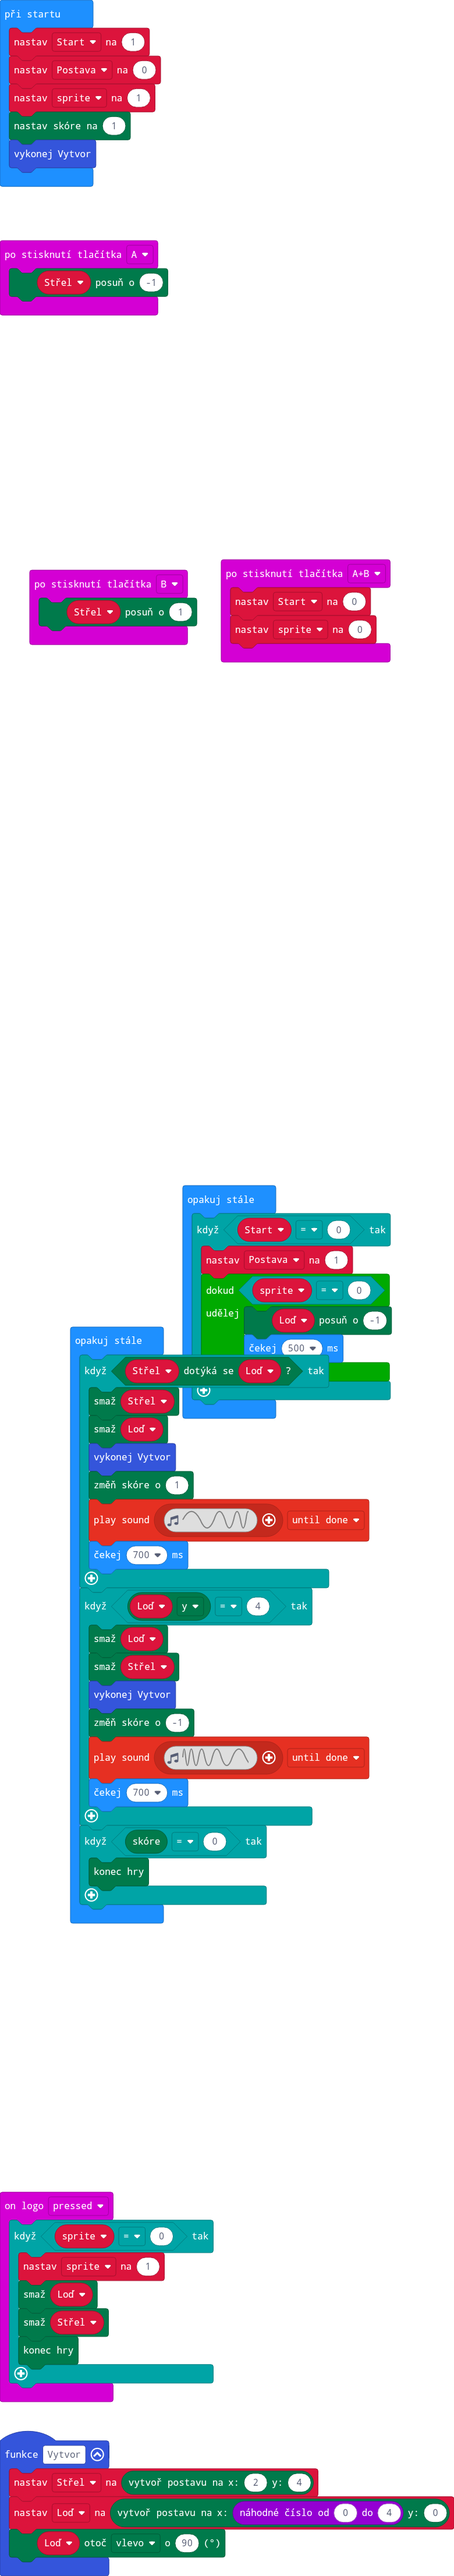
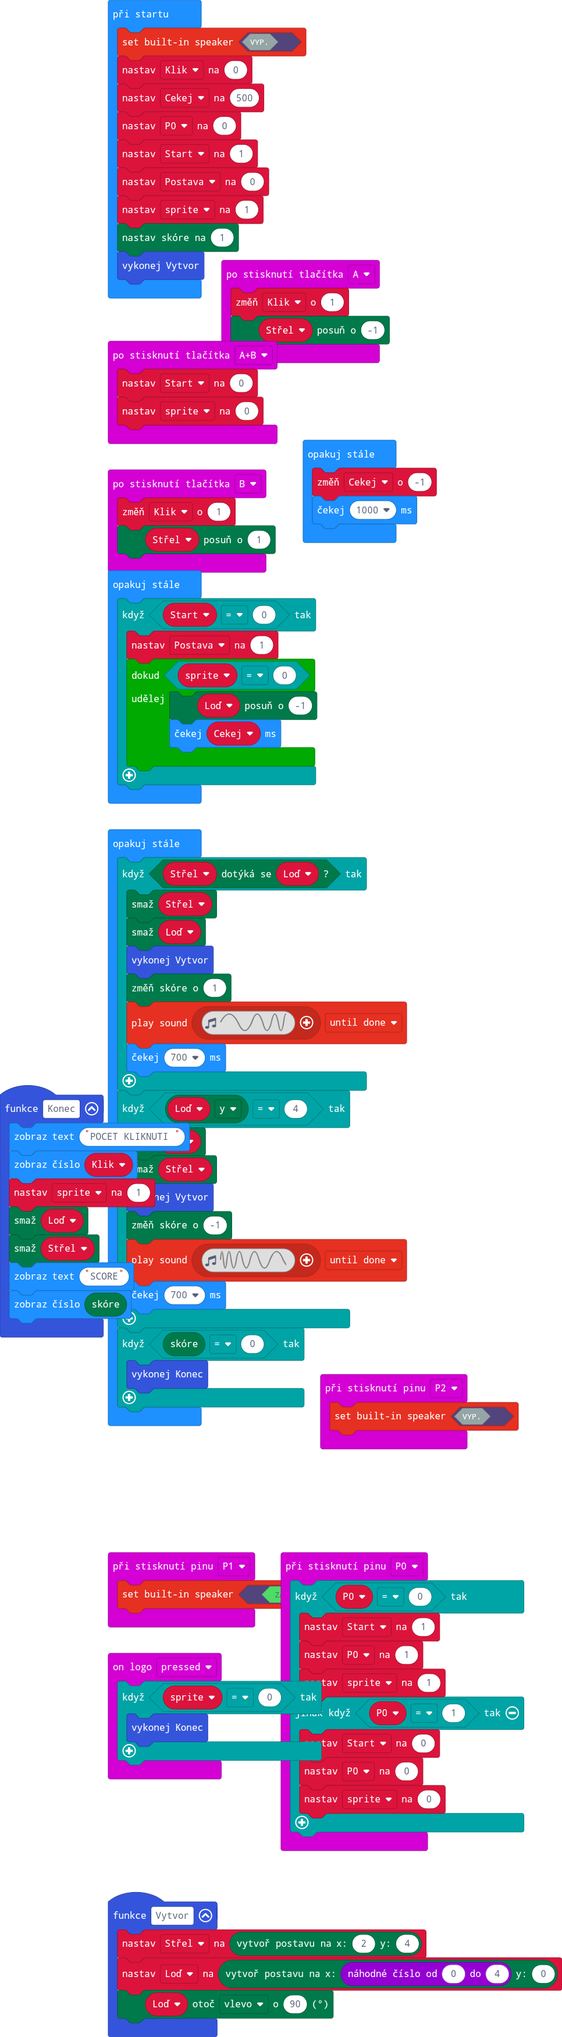
Aktualizovat main.blocks, main.ts

diff --git a/main.ts b/main.ts
@@ -1,12 +1,40 @@
+input.onPinPressed(TouchPin.P0, function () {
+    if (P0 == 0) {
+        Start = 1
+        P0 = 1
+        sprite = 1
+    } else if (P0 == 1) {
+        Start = 0
+        P0 = 0
+        sprite = 0
+    }
+})
 input.onButtonPressed(Button.A, function () {
+    Klik += 1
     Střel.move(-1)
+})
+function Konec () {
+    basic.showString("POCET KLIKNUTI ")
+    basic.showNumber(Klik)
+    sprite = 1
+    Loď.delete()
+    Střel.delete()
+    basic.showString("SCORE")
+    basic.showNumber(game.score())
+}
+input.onPinPressed(TouchPin.P2, function () {
+    music.setBuiltInSpeakerEnabled(false)
 })
 input.onButtonPressed(Button.AB, function () {
     Start = 0
     sprite = 0
 })
 input.onButtonPressed(Button.B, function () {
+    Klik += 1
     Střel.move(1)
+})
+input.onPinPressed(TouchPin.P1, function () {
+    music.setBuiltInSpeakerEnabled(true)
 })
 function Vytvor () {
     Střel = game.createSprite(2, 4)
@@ -15,27 +43,34 @@ function Vytvor () {
 }
 input.onLogoEvent(TouchButtonEvent.Pressed, function () {
     if (sprite == 0) {
-        sprite = 1
-        Loď.delete()
-        Střel.delete()
-        game.gameOver()
+        Konec()
     }
 })
 let Loď: game.LedSprite = null
 let Střel: game.LedSprite = null
 let sprite = 0
 let Start = 0
+let P0 = 0
+let Klik = 0
+music.setBuiltInSpeakerEnabled(false)
+Klik = 0
+let Cekej = 500
+P0 = 0
 Start = 1
 let Postava = 0
 sprite = 1
 game.setScore(1)
 Vytvor()
 basic.forever(function () {
+    Cekej += -1
+    basic.pause(1000)
+})
+basic.forever(function () {
     if (Start == 0) {
         Postava = 1
         while (sprite == 0) {
             Loď.move(-1)
-            basic.pause(500)
+            basic.pause(Cekej)
         }
     }
 })
@@ -57,6 +92,6 @@ basic.forever(function () {
         basic.pause(700)
     }
     if (game.score() == 0) {
-        game.gameOver()
+        Konec()
     }
 })
